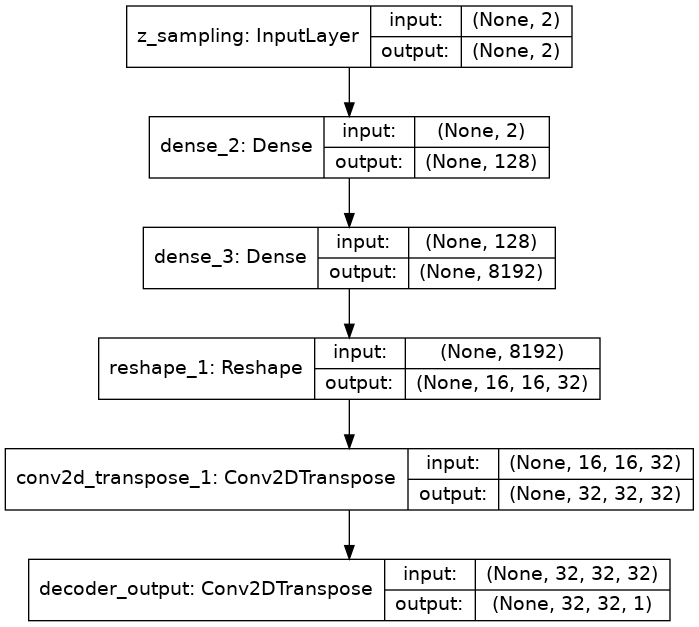
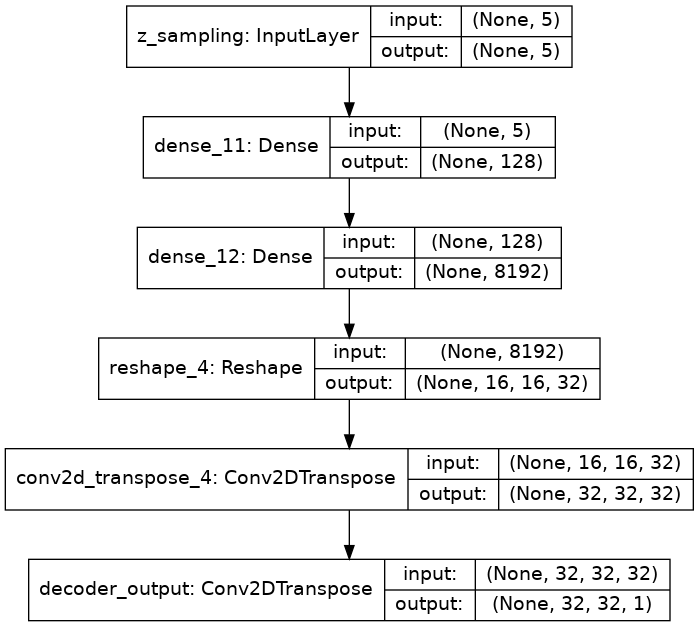
save all files

diff --git a/SkyEmu/run_latentdim.py b/SkyEmu/run_latentdim.py
@@ -9,6 +9,7 @@ import latinHyp_plot as lhc
 
 
 DataDir = '../Data/'
+task = 'latentspace_dim'
 
 # Training and testing sets parameters
 n_train = 1072
@@ -16,16 +17,16 @@ n_test = 100
 n_params = 5
 
 # Generate latin hypercubes
-filename_train_par = 'lhc_'+str(n_train)+'_'+str(n_params)+'_training.txt'
+filename_train_par = task+'lhc_'+str(n_train)+'_'+str(n_params)+'_training.txt'
 lhc.latin_hc(filename_train_par, n_train)
-filename_test_par = 'lhc_'+str(n_test)+'_'+str(n_params)+'_testing.txt'
+filename_test_par = task+'lhc_'+str(n_test)+'_'+str(n_params)+'_testing.txt'
 lhc.latin_hc(filename_test_par, n_test)
 
 # Generate training and testing sets
-filename_train_gal = 'plot_'+str(n_train)+'_'+str(n_params)+'_training'
+filename_train_gal = task+'plot_'+str(n_train)+'_'+str(n_params)+'_training'
 gengal.SaveGal(gengal.GenSetGal(DataDir+filename_train_par), filename_train_gal, 'galaxies')
 
-filename_test_gal = 'plot_'+str(n_test)+'_'+str(n_params)+'_testing'
+filename_test_gal = task+'plot_'+str(n_test)+'_'+str(n_params)+'_testing'
 gengal.SaveGal(gengal.GenSetGal(DataDir+filename_test_par), filename_test_gal, 'galaxies')
 
 # Latent space / truncated basis parameters
@@ -38,13 +39,13 @@ mse_vaegp = np.zeros(n_lat+1)
 
 for l in latent_dim:
     # Compute mse from pca+gp emulator
-    mse_pcagp[l-1] = pcagp.perform_pca_gp(l, filename_train_gal, filename_train_par, filename_test_gal, filename_test_par)
+    mse_pcagp[l-1] = pcagp.perform_pca_gp(l, task, filename_train_gal, filename_train_par, filename_test_gal, filename_test_par)
 
     # Train/Run cvae emulator and compute mse
-    filename_decoder, filename_training_encoded = cvae.train_cvae(l, filename_train_gal, filename_test_gal)
+    filename_decoder, filename_training_encoded = cvae.train_cvae(l, task, filename_train_gal, filename_test_gal)
     # filename_decoder = "cvae_decoder_model_galsim1072.h5"
     # filename_training_encoded = "cvae_encoded_xtrain_512_51072.txt"
-    filename_test_encoded = gp_model.gp(filename_train_par, filename_test_par, filename_training_encoded)
+    filename_test_encoded = gp_model.gp(task, filename_train_par, filename_test_par, filename_training_encoded)
     mse_vaegp[l-1] = testing.compute_vae_mse(filename_decoder, filename_test_encoded, filename_train_gal, filename_test_gal)
 
 # Save mse vectors

diff --git a/SkyEmu/run_mse_dataset.py b/SkyEmu/run_mse_dataset.py
@@ -16,9 +16,10 @@ latent_dim_pca = 12
 
 num_test = 100
 DataDir = '../Data/'
-filename_test_par = 'lhc_'+str(num_test)+'_'+str(num_params)+'_testing.txt'
+task = 'training_size'
+filename_test_par = task+'lhc_'+str(num_test)+'_'+str(num_params)+'_testing.txt'
 # Generate the testing set
-filename_test_gal = 'plot_'+str(num_test)+'_'+str(num_params)+'_testing'
+filename_test_gal = task+'plot_'+str(num_test)+'_'+str(num_params)+'_testing'
 gengal.SaveGal(gengal.GenSetGal(DataDir+filename_test_par), filename_test_gal, 'galaxies')
 
 mse_pcagp = np.zeros(num_lhc)
@@ -26,16 +27,16 @@ mse_vaegp = np.zeros(num_lhc)
 
 for i in range(num_lhc):
     nevals = np.int(num_evals[i])
-    filename_training_par = 'lhc_'+str(nevals)+'_'+str(num_params)+'_training.txt'
-    filename_training_gal = 'plot_'+str(nevals)+'_'+str(num_params)+'_training'
+    filename_training_par = task+'lhc_'+str(nevals)+'_'+str(num_params)+'_training.txt'
+    filename_training_gal = task+'plot_'+str(nevals)+'_'+str(num_params)+'_training'
     # Generate the training set with latin hypercube parameters
     gengal.SaveGal(gengal.GenSetGal(DataDir+filename_training_par), filename_training_gal, 'galaxies')
     # Run pca+gp emulator and compute mse
-    mse_pcagp[i] = pcagp.perform_pca_gp(latent_dim_pca, filename_training_gal, DataDir+filename_training_par, filename_test_gal, DataDir+filename_test_par)
+    mse_pcagp[i] = pcagp.perform_pca_gp(latent_dim_pca, task, filename_training_gal, DataDir+filename_training_par, filename_test_gal, DataDir+filename_test_par)
 
     # Train/Run cvae emulator and compute mse
-    filename_decoder, filename_training_encoded = cvae.train_cvae(latent_dim_vae, filename_training_gal, filename_test_gal)
-    filename_test_encoded = gp_model.gp(filename_training_par, filename_test_par, filename_training_encoded)
+    filename_decoder, filename_training_encoded = cvae.train_cvae(latent_dim_vae, task, filename_training_gal, filename_test_gal)
+    filename_test_encoded = gp_model.gp(task, filename_training_par, filename_test_par, filename_training_encoded)
     mse_vaegp[i] = testing.compute_vae_mse(filename_decoder, filename_test_encoded, filename_training_gal, filename_test_gal)
 
 # Save mse vectors

diff --git a/SkyEmu/cvae.py b/SkyEmu/cvae.py
@@ -64,7 +64,7 @@ def sampling(args):
     return z_mean + K.exp(0.5 * z_log_var) * epsilon
 
 
-def train_cvae(latent_dim, filename_train_gal, filename_test_gal):
+def train_cvae(latent_dim, task, filename_train_gal, filename_test_gal):
     # ------------------------ Parameters ---------------------------------------
     DataDir = netparam.DataDir
 
@@ -202,21 +202,21 @@ def train_cvae(latent_dim, filename_train_gal, filename_test_gal):
     vae.fit(x_train, batch_size=batch, epochs=epochs, validation_data=(x_test, None))
 
     # Save weights and models
-    vae.save(DataDir+'cvae_model_galsim'+str(ntrain)+'.h5')
-    vae.save_weights(DataDir+'cvae_weights_galsim'+str(ntrain)+'.h5')
-    encoder.save(DataDir+'cvae_encoder_model_galsim'+str(ntrain)+'.h5')
-    encoder.save_weights(DataDir+'cvae_encoder_weights_galsim'+str(ntrain)+'.h5')
+    vae.save(DataDir+task+'cvae_model_galsim'+str(ntrain)+'.h5')
+    vae.save_weights(DataDir+task+'cvae_weights_galsim'+str(ntrain)+'.h5')
+    encoder.save(DataDir+task+'cvae_encoder_model_galsim'+str(ntrain)+'.h5')
+    encoder.save_weights(DataDir+task+'cvae_encoder_weights_galsim'+str(ntrain)+'.h5')
 
-    filename_decoder = 'cvae_decoder_model_galsim'+str(ntrain)+'.h5'
+    filename_decoder = task+'cvae_decoder_model_galsim'+str(ntrain)+'.h5'
     decoder.save(DataDir+filename_decoder)
-    decoder.save_weights(DataDir+'cvae_decoder_weights_galsim'+str(ntrain)+'.h5')
+    decoder.save_weights(DataDir+task+'cvae_decoder_weights_galsim'+str(ntrain)+'.h5')
 
     # -------------- Training and testing sets encoding decoding -----------------
 
     x_train_encoded = encoder.predict(x_train)
     x_train_encoded = K.cast_to_floatx(x_train_encoded)
 
-    filename_train_encoded = 'cvae_encoded_xtrain_512_5'+str(ntrain)+'.txt'
+    filename_train_encoded = task+'cvae_encoded_xtrain_512_5'+str(ntrain)+'.txt'
     np.savetxt(DataDir+filename_train_encoded, x_train_encoded[2])
 
     return filename_decoder, filename_train_encoded

diff --git a/SkyEmu/gp_model.py b/SkyEmu/gp_model.py
@@ -29,7 +29,7 @@ def rescale(params):
 # ----------------------- GP fitting and predicting functions ----------------
 
 
-def gp_fit(weights, y_train):
+def gp_fit(weights, y_train, task):
     """
     Learns the GP related to the weigths matrix
     Input :
@@ -49,7 +49,9 @@ def gp_fit(weights, y_train):
     model.optimize()
 
     # Save model
-    model.save_model(DataDir+'GPmodel/gpfit_cvae', compress=True, save_data=True)
+    nparams = y_train.shape[1]
+    ntrain = weights.shape[1]
+    model.save_model(DataDir+task+'GPmodel/gpfit_cvae_'+str(ntrain)+'_'+str(nparams), compress=True, save_data=True)
     return model
 
 
@@ -68,7 +70,7 @@ def gp_predict(model, params):
     return predic[0]
 
 
-def gp(filename_train_par, filename_test_par, filename_train_encoded):
+def gp(task, filename_train_par, filename_test_par, filename_train_encoded):
     # ------------------------ Parameters ---------------------------------------
 
     DataDir = netparam.DataDir
@@ -86,10 +88,10 @@ def gp(filename_train_par, filename_test_par, filename_train_encoded):
 
     # ---------------------- Training -------------------------------------------
 
-    gpmodel = gp_fit(x_train_encoded, y_train)
+    gpmodel = gp_fit(task, x_train_encoded, y_train)
     x_test_encoded = gp_predict(gpmodel, y_test)
 
-    filename_test_encoded = 'cvae_encoded_xtest_5_'+str(ntrain)+'.txt'
+    filename_test_encoded = task+ 'cvae_encoded_xtest_5_'+str(ntrain)+'.txt'
     np.savetxt(DataDir+filename_test_encoded, x_test_encoded)
 
     return filename_test_encoded

diff --git a/SkyEmu/pcagp_emulator.py b/SkyEmu/pcagp_emulator.py
@@ -89,7 +89,7 @@ def plot_pca(basis, weights):
     plt.show()
 
 
-def gp_fit(weights, params):
+def gp_fit(weights, params, task):
     """
     Learns the GP related to the weigths matrix
     Input :
@@ -113,7 +113,9 @@ def gp_fit(weights, params):
     model.optimize()
 
     # Save model
-    model.save_model('../Data/GPmodel/gpfit_512_5', compress=True, save_data=True)
+    nparams = params.shape[1]
+    ntrain = weights.shape[1]
+    model.save_model('../Data/'+task+'GPmodel/gpfit_'+str(ntrain)+'_'+str(nparams), compress=True, save_data=True)
     return model, tmean, tmult
 
 
@@ -196,7 +198,7 @@ def mse_r2(true, predicted):
     return mse, r2
 
 
-def perform_pca_gp(latent_dim, filename_train_gal, filename_train_par, filename_test_gal, filename_test_par):
+def perform_pca_gp(latent_dim, task, filename_train_gal, filename_train_par, filename_test_gal, filename_test_par):
     DataDir = "../Data/"
     # Load training set
     f = h5py.File('../Data/output_tests/'+filename_train_gal+'.hdf5', 'r')
@@ -212,7 +214,7 @@ def perform_pca_gp(latent_dim, filename_train_gal, filename_train_par, filename_
     # PCA
     pca, W = pca_reduction(x_train, ncomp=latent_dim)
     # GP learning
-    gp, tmean, tmult = gp_fit(W, y_train)
+    gp, tmean, tmult = gp_fit(W, y_train, task)
 
     # Load testing set
     f = h5py.File('../Data/output_tests/'+filename_test_gal+'.hdf5', 'r')
